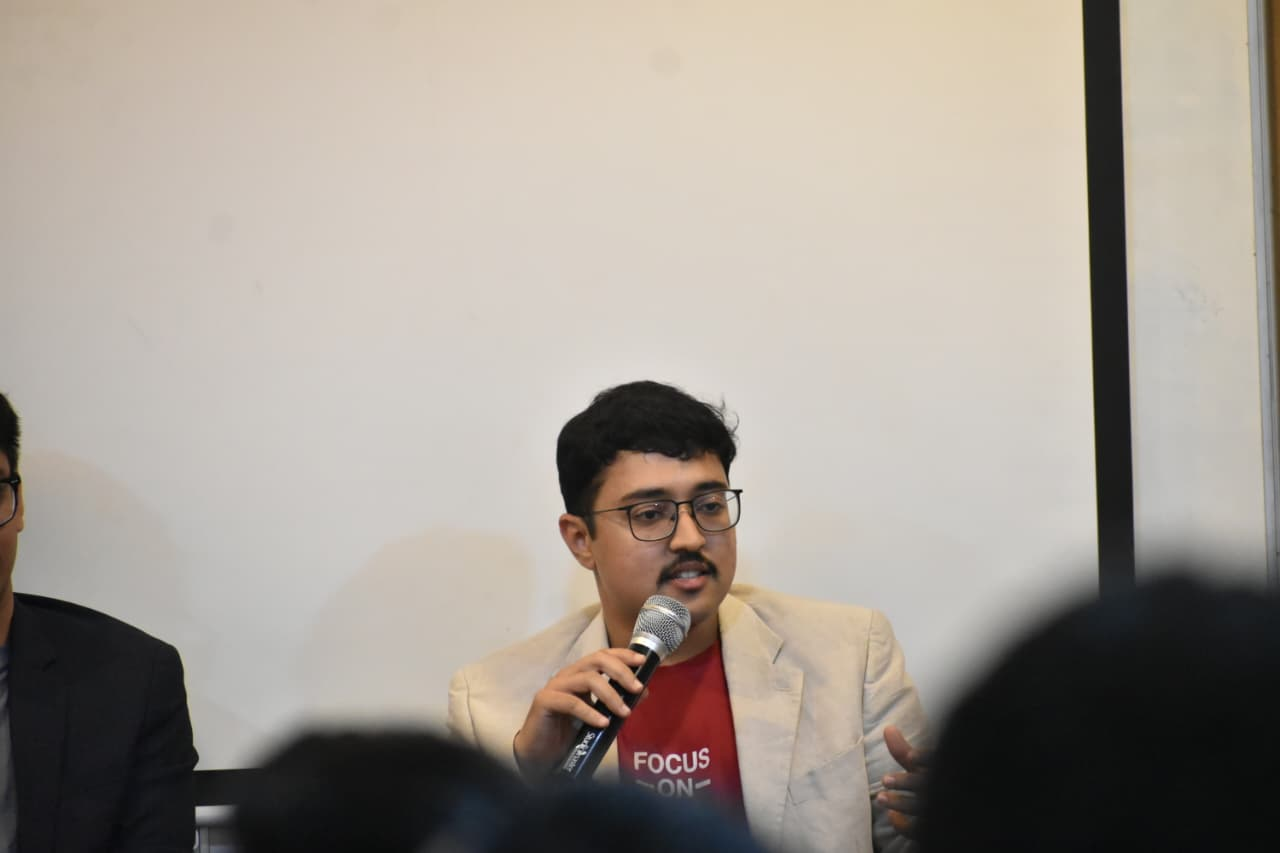
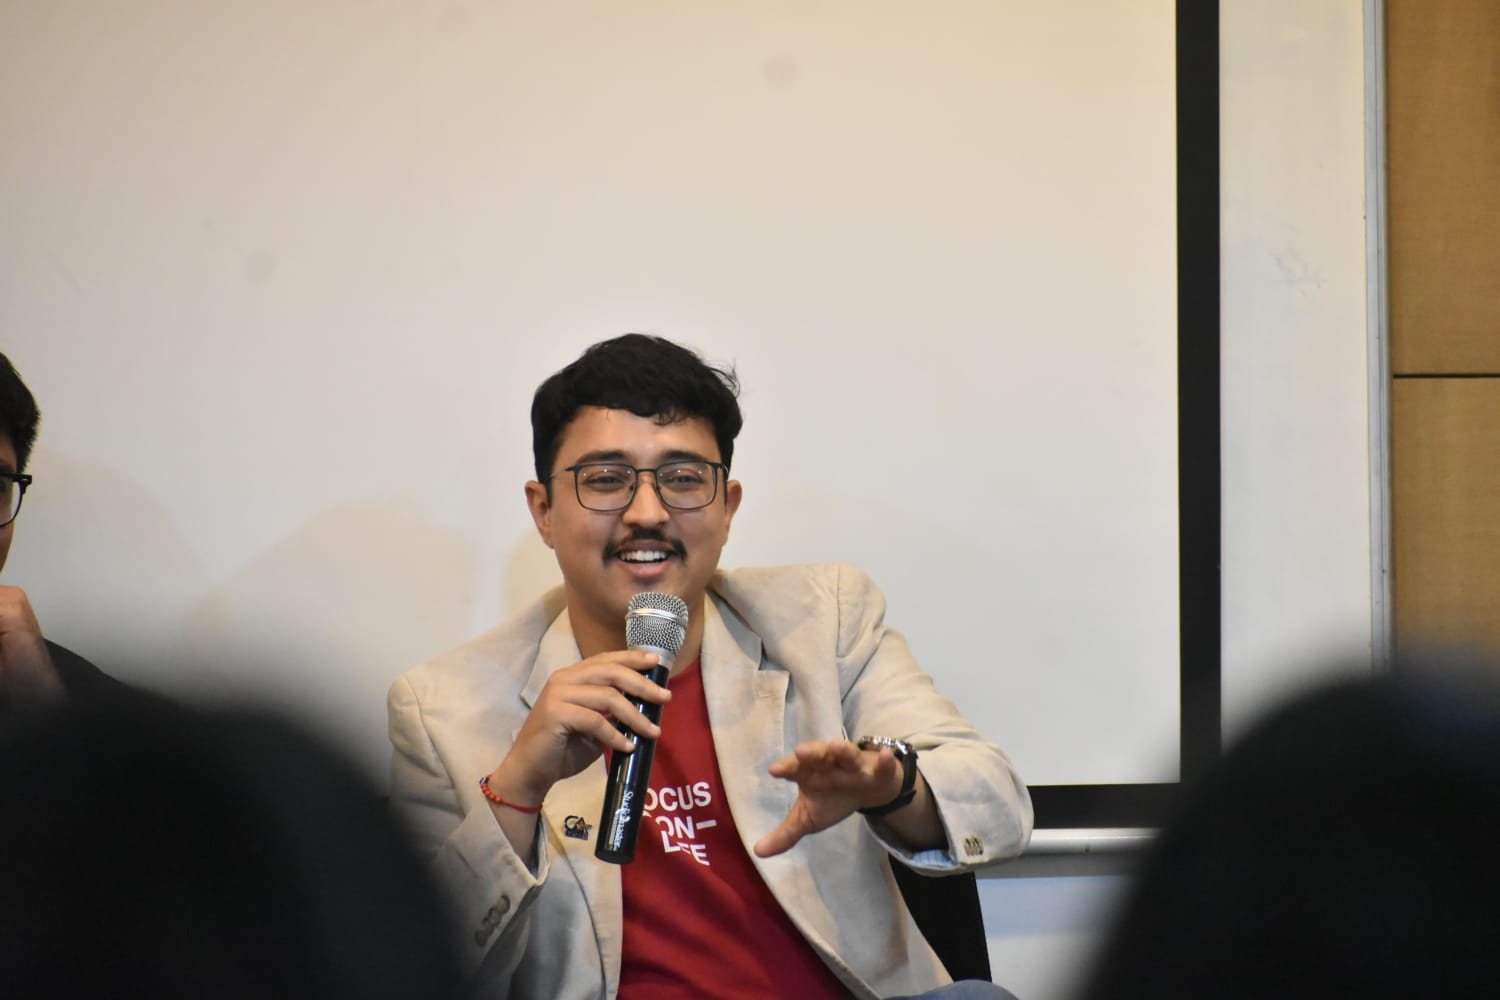
Swap hero photo and weight it toward the right side
Replaces the hero photo with the better panel shot. Since the source
photo's aspect ratio is close to the hero's, object-position alone
didn't leave enough room to shift the subject — added a responsive
zoom+pan (wider screens only) so the subject sits in the right two
thirds of the frame, clear of the headline and CTAs.

diff --git a/assets/css/style.css b/assets/css/style.css
@@ -161,7 +161,14 @@ a { color: inherit; text-decoration: none; }
   width: 100%;
   height: 100%;
   object-fit: cover;
-  object-position: 50% 35%;
+  object-position: 42% 28%;
+}
+@media (min-width: 860px) {
+  .hero-photo img {
+    object-position: 50% 38%;
+    transform: scale(1.3) translateX(20%);
+    transform-origin: 50% 38%;
+  }
 }
 .hero-photo::after {
   content: "";
